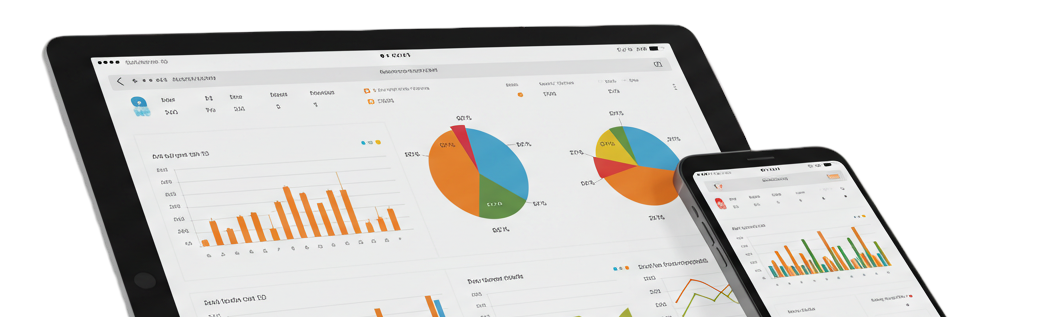
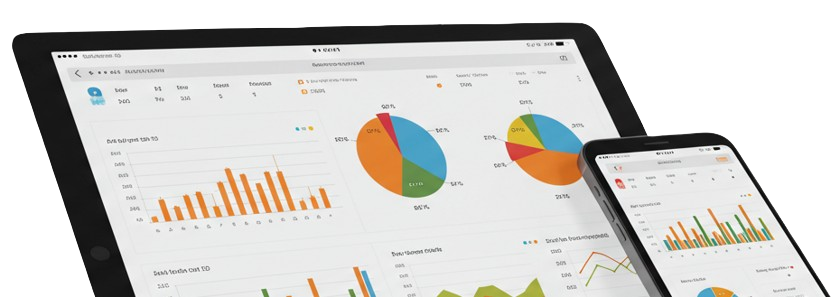
[fix]: code updated

Changed region(s): [[0.0, 0.0606, 0.9905, 1.0], [0.3095, 0.8182, 0.5262, 1.0], [0.3405, 0.4242, 0.3714, 0.4545]]

diff --git a/frontend/src/components/LandingPage/About.jsx b/frontend/src/components/LandingPage/About.jsx
@@ -8,7 +8,7 @@ const About = () => {
     >
       <div className="container mx-auto max-w-7xl">
         <h2
-          className="text-2xl sm:text-3xl md:text-4xl font-bold text-green-600 mb-6 sm:mb-8 text-center"
+          className="text-2xl sm:text-3xl md:text-4xl font-bold text-green-600 mb-6 sm:mb-8 text-center font-primary"
           data-aos="fade-down"
           data-aos-delay="100"
         >
@@ -34,12 +34,12 @@ const About = () => {
             data-aos="fade-left"
             data-aos-delay="300"
           >
-            <p className="text-base sm:text-lg text-gray-700">
+            <p className="text-base sm:text-lg text-gray-700 font-secondary">
               Food choices impact the planet more than we realize. From carbon
               emissions to water consumption, every meal contributes to our
               environmental footprint.
             </p>
-            <p className="text-base sm:text-lg text-gray-700">
+            <p className="text-base sm:text-lg text-gray-700 font-secondary">
               FoodNeural helps you understand and reduce that impact using
               AI-powered analysis. By evaluating the sustainability of different
               foods, we empower individuals and businesses to make smarter,
@@ -47,27 +47,27 @@ const About = () => {
             </p>
 
             <div className="bg-green-50 p-4 sm:p-6 rounded-lg border border-green-100">
-              <h3 className="text-lg sm:text-xl font-semibold text-green-700 mb-2 sm:mb-3">
+              <h3 className="text-lg sm:text-xl font-semibold text-green-700 mb-2 sm:mb-3 font-primary">
                 🌍 Our Mission
               </h3>
-              <p className="text-sm sm:text-base text-gray-700">
+              <p className="text-sm sm:text-base text-gray-700 font-secondary">
                 To provide data-driven insights that promote sustainable eating
                 and help reduce the environmental impact of food production.
               </p>
             </div>
 
             <div className="bg-green-50 p-4 sm:p-6 rounded-lg border border-green-100">
-              <h3 className="text-lg sm:text-xl font-semibold text-green-700 mb-2 sm:mb-3">
+              <h3 className="text-lg sm:text-xl font-semibold text-green-700 mb-2 sm:mb-3 font-primary">
                 💡 How We Do It
               </h3>
-              <p className="text-sm sm:text-base text-gray-700">
+              <p className="text-sm sm:text-base text-gray-700 font-secondary">
                 Using machine learning and scientific food databases, we analyze
                 the environmental footprint of ingredients, providing users with
                 sustainability scores and eco-friendly alternatives.
               </p>
             </div>
 
-            <p className="text-base sm:text-lg font-medium text-green-600">
+            <p className="text-base sm:text-lg font-medium text-green-600 font-secondary">
               Join us in building a more sustainable future, one meal at a time!
               🌱✨
             </p>

diff --git a/frontend/src/components/LandingPage/Features.jsx b/frontend/src/components/LandingPage/Features.jsx
@@ -41,15 +41,17 @@ const Features = () => {
       className="py-8 sm:py-12 md:py-16 px-4 sm:px-8 md:px-16 bg-gray-50"
       data-aos="fade-up"
     >
-      <div className="container mx-auto max-w-7xl">
+      <div className="container mx-auto max-w-6xl">
+        {" "}
         <h2
-          className="text-2xl sm:text-3xl md:text-4xl font-bold text-center text-green-600 mb-8 sm:mb-12"
+          className="text-2xl sm:text-3xl md:text-4xl font-bold text-center text-green-600 mb-8 sm:mb-12 font-primary"
           data-aos="fade-down"
           data-aos-delay="100"
         >
           Our Features
         </h2>
-        <div className="flex flex-col space-y-6 sm:space-y-8">
+        <div className="flex flex-col space-y-6">
+          {" "}
           {features.map((feature, index) => (
             <Motion.div
               key={index}
@@ -61,7 +63,7 @@ const Features = () => {
               <Card className="overflow-hidden hover:shadow-xl">
                 <div className="grid md:grid-cols-2 gap-0">
                   <div
-                    className={`h-48 sm:h-64 md:h-full ${
+                    className={`h-40 sm:h-48 md:h-56 ${
                       index % 2 === 1 ? "md:order-2" : ""
                     }`}
                   >
@@ -72,12 +74,13 @@ const Features = () => {
                       loading="lazy"
                     />
                   </div>
-                  <CardContent className="flex items-center p-6 sm:p-8 md:p-12">
+                  <CardContent className="flex items-center p-4 sm:p-6 md:p-8">
+                    {" "}
                     <div>
-                      <h3 className="text-lg sm:text-xl md:text-2xl font-semibold mb-3 sm:mb-4">
+                      <h3 className="text-lg sm:text-xl font-semibold mb-2 sm:mb-3 text-gray-800 font-primary">
                         {feature.name}
                       </h3>
-                      <p className="text-sm sm:text-base text-gray-600">
+                      <p className="text-sm sm:text-base text-gray-600 font-secondary">
                         {feature.description}
                       </p>
                     </div>

diff --git a/frontend/src/components/LandingPage/Team.jsx b/frontend/src/components/LandingPage/Team.jsx
@@ -1,15 +1,14 @@
-// TeamSection.jsx
 import React from "react";
 
-const TeamSection = () => {
+const Team = () => {
   const teamMembers = [
     {
       name: "Pascal Amaliri",
-      role: "Full Stack Developer",
-      avatar: "/pascal-avatar.jpg", // Add your avatar image to public folder
+      role: "Software Developer",
+      avatar: "/pascal-avatar.jpg",
       github: "https://github.com/PascalAmah",
       linkedin: "https://linkedin.com/in/pascalamaliri",
-      twitter: "https://twitter.com/PascalAmah",
+      twitter: "https://twitter.com/chisax_",
     },
   ];
 
@@ -20,7 +19,7 @@ const TeamSection = () => {
     >
       <div className="container mx-auto text-center">
         <h2
-          className="text-2xl sm:text-3xl md:text-4xl font-bold text-green-600 mb-12"
+          className="text-2xl sm:text-3xl md:text-4xl font-bold text-green-600 mb-12 font-primary"
           data-aos="fade-down"
           data-aos-delay="100"
         >
@@ -49,10 +48,12 @@ const TeamSection = () => {
                   />
                 </div>
               </div>
-              <h3 className="text-xl font-semibold text-gray-800 mb-1">
+              <h3 className="text-xl font-semibold text-gray-800 mb-1 font-primary">
                 {member.name}
               </h3>
-              <p className="text-sm text-gray-600 mb-4">{member.role}</p>
+              <p className="text-sm text-gray-600 mb-4 font-secondary">
+                {member.role}
+              </p>
               <div className="flex justify-center gap-4">
                 <a
                   href={member.github}
@@ -114,4 +115,4 @@ const TeamSection = () => {
   );
 };
 
-export default TeamSection;
+export default Team;

diff --git a/frontend/src/components/LandingPage/Workflow.jsx b/frontend/src/components/LandingPage/Workflow.jsx
@@ -39,14 +39,14 @@ const Workflow = () => {
     >
       <div className="container mx-auto max-w-7xl">
         <h2
-          className="text-2xl sm:text-3xl md:text-4xl font-bold text-center text-gray-800 mb-4"
+          className="text-2xl sm:text-3xl md:text-4xl font-bold text-center text-gray-800 mb-4 font-primary"
           data-aos="fade-down"
           data-aos-delay="100"
         >
           Workflow
         </h2>
         <p
-          className="text-sm sm:text-base md:text-lg text-center text-gray-700 max-w-3xl mx-auto mb-8 sm:mb-12"
+          className="text-sm sm:text-base md:text-lg text-center text-gray-700 max-w-3xl mx-auto mb-8 sm:mb-12 font-secondary"
           data-aos="fade-up"
           data-aos-delay="200"
         >
@@ -76,10 +76,10 @@ const Workflow = () => {
                     {step.icon}
                   </span>
                 </div>
-                <h3 className="text-lg sm:text-xl font-semibold text-gray-800 mb-2 sm:mb-3">
+                <h3 className="text-lg sm:text-xl font-semibold text-gray-800 mb-2 sm:mb-3 font-primary">
                   {step.title}
                 </h3>
-                <p className="text-sm sm:text-base text-gray-600">
+                <p className="text-sm sm:text-base text-gray-600 font-secondary">
                   {step.description}
                 </p>
               </div>

diff --git a/frontend/src/components/LandingPage/Hero.jsx b/frontend/src/components/LandingPage/Hero.jsx
@@ -73,12 +73,18 @@ const Hero = () => {
               data-aos-delay="400"
             >
               <div className="relative w-full max-w-5xl mx-auto">
-                <img
-                  src="/insights.png"
-                  alt="FoodNeural Dashboard"
-                  className="w-full h-auto shadow-2xl rounded-xl transition-transform duration-300 hover:scale-105"
-                  loading="lazy"
-                />
+                <picture>
+                  <source
+                    srcSet="/insights_mobile.png"
+                    media="(max-width: 640px)"
+                  />
+                  <img
+                    src="/insights.png"
+                    alt="FoodNeural Dashboard"
+                    className="w-full h-auto transition-transform duration-300 hover:scale-105"
+                    loading="lazy"
+                  />
+                </picture>
               </div>
             </div>
           </div>

diff --git a/frontend/src/App.jsx b/frontend/src/App.jsx
@@ -1,5 +1,5 @@
 import { useEffect } from "react";
-import { BrowserRouter as Router, Routes, Route } from "react-router-dom";
+import { Routes, Route } from "react-router-dom";
 import Home from "./pages/Home";
 import Analyzer from "./pages/Analyzer";
 import AOS from "aos";
@@ -15,14 +15,12 @@ const App = () => {
   }, []);
 
   return (
-    <Router>
-      <div>
-        <Routes>
-          <Route path="/" element={<Home />} />
-          <Route path="/Analyzer" element={<Analyzer />} />
-        </Routes>
-      </div>
-    </Router>
+    <div>
+      <Routes>
+        <Route path="/" element={<Home />} />
+        <Route path="/analyzer" element={<Analyzer />} />
+      </Routes>
+    </div>
   );
 };
 

diff --git a/frontend/src/pages/Home.jsx b/frontend/src/pages/Home.jsx
@@ -3,7 +3,7 @@ import Hero from "../components/LandingPage/Hero";
 import Footer from "../components/LandingPage/Footer";
 import Features from "../components/LandingPage/Features";
 import About from "../components/LandingPage/About";
-import TeamSection from "../components/LandingPage/Team";
+import Team from "../components/LandingPage/Team";
 import Workflow from "../components/LandingPage/Workflow";
 
 const Home = () => {
@@ -13,7 +13,7 @@ const Home = () => {
       <Hero />
       <Features />
       <About />
-      <TeamSection />
+      <Team />
       <Workflow />
       <Footer />
     </div>

diff --git a/frontend/src/main.jsx b/frontend/src/main.jsx
@@ -1,11 +1,12 @@
-import { StrictMode } from "react";
-import { createRoot } from "react-dom/client";
+import ReactDOM from "react-dom/client";
+import { BrowserRouter } from "react-router-dom";
 import "./index.css";
 import "aos/dist/aos.css";
 import App from "./App.jsx";
 
-createRoot(document.getElementById("root")).render(
-  <StrictMode>
+const root = ReactDOM.createRoot(document.getElementById("root"));
+root.render(
+  <BrowserRouter>
     <App />
-  </StrictMode>
+  </BrowserRouter>
 );

diff --git a/frontend/src/components/LandingPage/Footer.jsx b/frontend/src/components/LandingPage/Footer.jsx
@@ -2,7 +2,7 @@ import React from "react";
 
 const Footer = () => {
   return (
-    <footer className="bg-gray-800 text-gray-300 py-6 text-center text-sm">
+    <footer className="bg-gray-800 text-gray-300 py-6 text-center text-sm font-secondary">
       <div className="max-w-6xl mx-auto px-4">
         <p>© 2025 FoodNeural | Data sources: Open Food Facts, USDA, FAO</p>
       </div>
